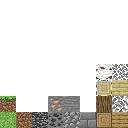
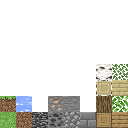
added buggy water

Changed region(s): [[0.875, 0.75, 1.0, 0.875], [0.875, 0.5, 1.0, 0.625], [0.125, 0.75, 0.25, 0.875]]

diff --git a/world-data.go b/world-data.go
@@ -12,6 +12,7 @@ var treeNoise = opensimplex.New(seed.Int63())
 
 const (
 	terrainCraziness = 0.03
+	waterLevel       = 9
 	treeCraziness    = 0.5
 	treeAmount       = 0.1 // 0 to 1
 )
@@ -23,6 +24,7 @@ const (
 	StoneBlock
 	OakLeafBlock
 	OakLogBlock
+	WaterBlock
 )
 
 func (world *World) generateBlocks() {
@@ -33,7 +35,8 @@ func (world *World) generateBlocks() {
 
 func (chunk *Chunk) generateBlockData(chunkPos Position2) {
 	chunk.generateTerrain(chunkPos)
-	chunk.addTrees(chunkPos)
+	chunk.addWater()
+	//chunk.addTrees(chunkPos)
 }
 
 func (chunk *Chunk) addBlock(block int8, chunkPos Position3) {
@@ -69,12 +72,24 @@ func (chunk *Chunk) generateTerrain(chunkPos Position2) {
 	}
 }
 
+func (chunk *Chunk) addWater() {
+	for x := range chunk.blocks {
+		for z := range chunk.blocks[x] {
+			for y := range chunk.blocks[x][z] {
+				if y < waterLevel && chunk.blocks[x][z][y].data == AirBlock {
+					chunk.addBlock(WaterBlock, Position3{X: x, Y: y, Z: z})
+				}
+			}
+		}
+	}
+}
+
 func (chunk *Chunk) addTrees(chunkPos Position2) {
 	for x := range chunk.blocks {
 		for z := range chunk.blocks[x] {
 			worldPos := chunkPos2AndLocalPos2ToWorldPos2(chunkPos, Position2{X: x, Z: z})
 			ground := getGroundLevel(worldPos)
-			if positionHasTree(worldPos) && ground+5 < CHUNK_HEIGHT {
+			if positionHasTree(worldPos) {
 				chunk.addStructure(tree, Position3{X: x, Y: ground, Z: z})
 			}
 		}

diff --git a/main-textures.go b/main-textures.go
@@ -16,6 +16,7 @@ var ( // textures begin at the top left of the atlas
 	OAK_LOG_SIDE = rl.Vector2{X: ATLAS_UNIT * 6.0, Y: ATLAS_UNIT * 6.0}
 	OAK_LOG_TOP  = rl.Vector2{X: ATLAS_UNIT * 6.0, Y: ATLAS_UNIT * 7.0}
 	OAK_LEAF     = rl.Vector2{X: ATLAS_UNIT * 7.0, Y: ATLAS_UNIT * 6.0}
+	WATER        = rl.Vector2{X: ATLAS_UNIT * 1.0, Y: ATLAS_UNIT * 6.0}
 )
 
 func loadTextures() {
@@ -65,6 +66,14 @@ func loadTextures() {
 			OAK_LEAF,
 			OAK_LEAF,
 			OAK_LEAF,
+		},
+		WaterBlock: {
+			WATER,
+			WATER,
+			WATER,
+			WATER,
+			WATER,
+			WATER,
 		},
 	}
 }

diff --git a/world-structure.go b/world-structure.go
@@ -8,7 +8,7 @@ var (
 	tree = Structure{
 		blocks: [][][]int8{
 			{
-				{OakLogBlock, OakLogBlock, OakLogBlock},
+				{OakLogBlock, OakLogBlock, OakLogBlock, OakLogBlock, OakLogBlock, OakLeafBlock},
 			},
 		},
 	}
